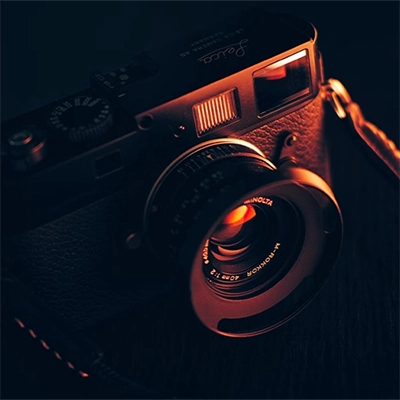
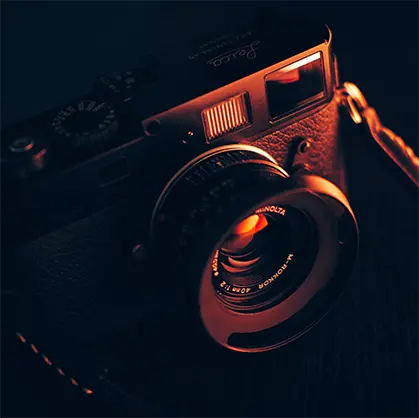
maj

diff --git a/index.html b/index.html
@@ -62,8 +62,15 @@
 </div>
 <div id="about">
 	<div class="picture left">
-		<img src="./assets/images/nina.webp" alt="Photographe Nina Carducci">
-	</div>
+        <img
+          class="nina-photo"
+          src="./assets/images/nina.webp"
+          srcset="
+            ./assets/images/nina.webp 554w,
+            ./assets/images/nina-mobile-250.webp 250w"
+          sizes="100vw"
+          alt="Nina"/>
+		</div>
 	<div id="about-me">
 		<h3 class="about-me__title">A propos de moi</h3>
 		<h6 class="about-me__introduction">Devenir photographe était pour moi une évidence. Comme si j’y étais prédestiné. Saisir un moment, une émotion, une situation, un endroit, une lumière et les rendre immortels, voilà ce qui me fait vibrer.</h6>
